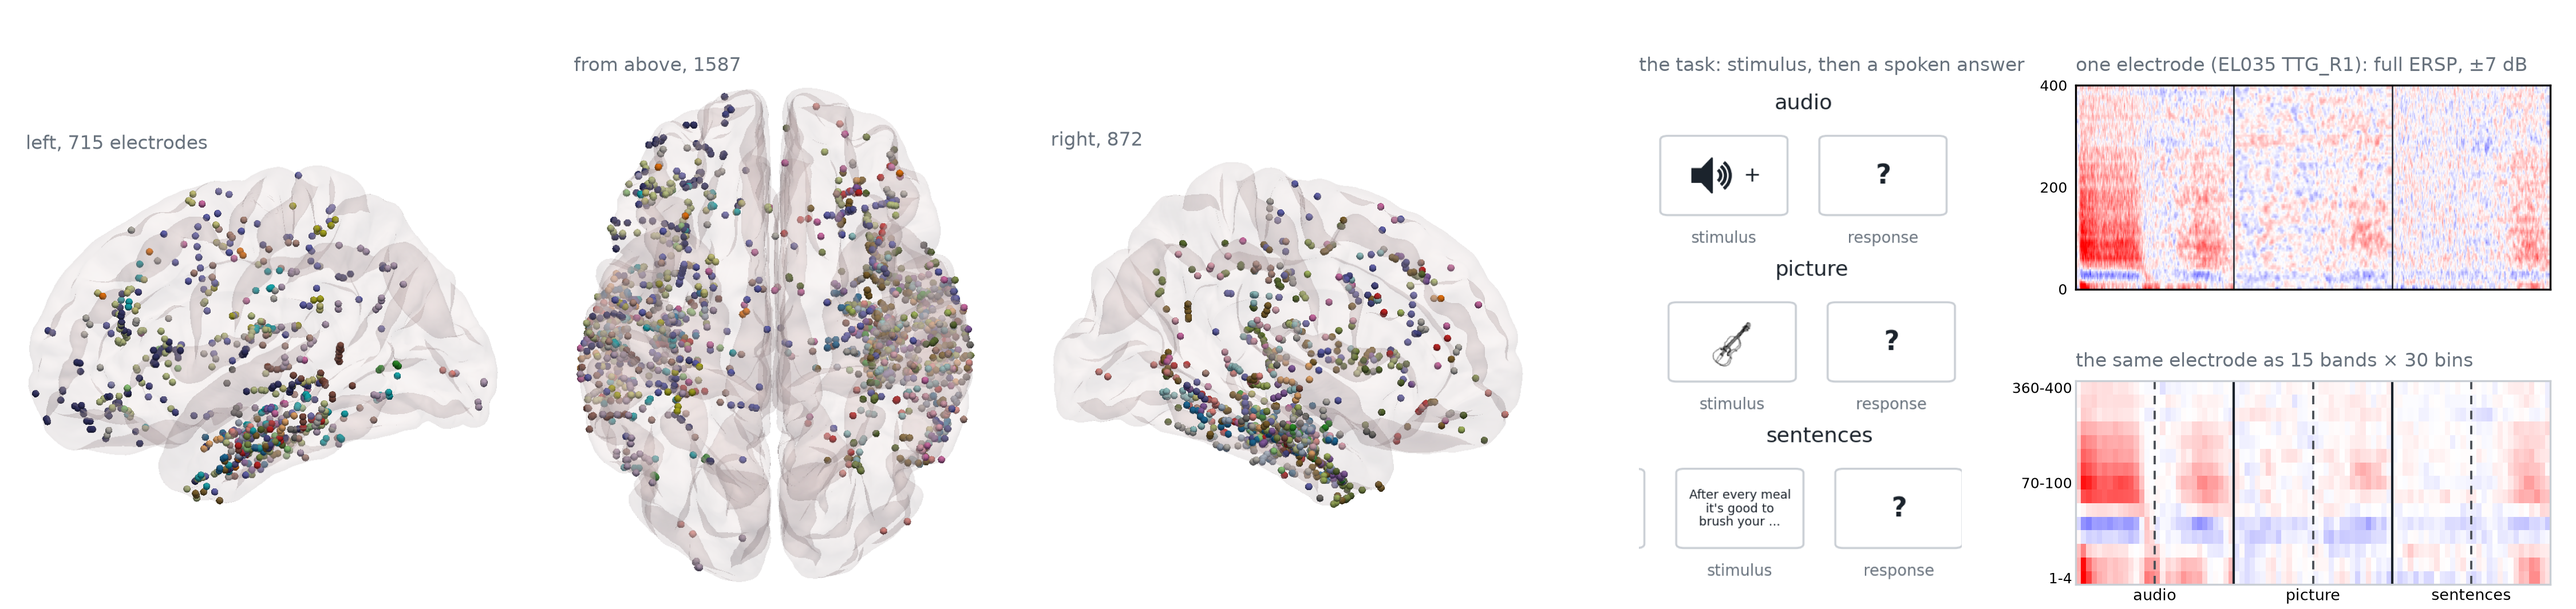
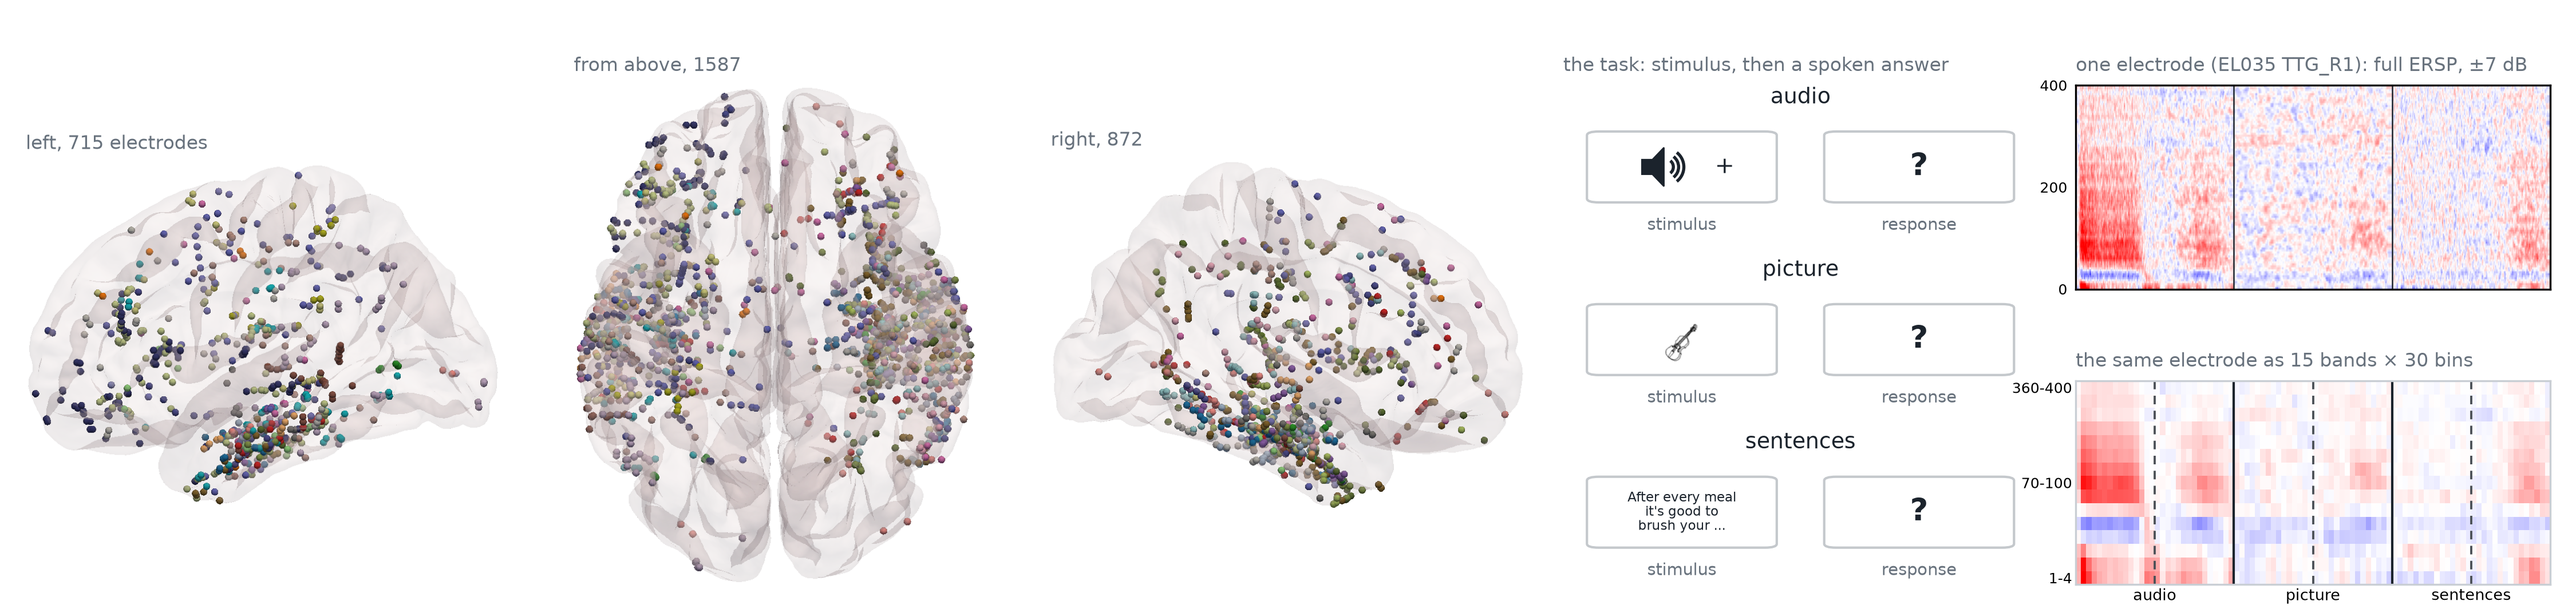
make_poster_assets.py: the task screens are drawn (as figure 0's header_0), one condition per axes, instead of cropped from the rendered FIG0 at fixed fractions of its width - those fractions went stale when figure 0 was re-laid out (boxes cut, a sliver of the neighbouring box, rows drifting); in fi

diff --git a/02_FBM_Clustering/make_poster_assets.py b/02_FBM_Clustering/make_poster_assets.py
@@ -113,6 +113,43 @@ def render_all(side, d, cols, rads, alphas, zoom=1.30):
     return P2._crop_alpha(np.asarray(img))
 
 
+SENTENCE_EXAMPLE = "After every meal\nit's good to\nbrush your ..."   # the paradigm figure's example (as figure 0)
+TASK_CONDS = ("audio", "picture", "reading")
+
+
+def task_header(ax, cond, scale=1.0, name=True):
+    """One condition's trial, drawn: the stimulus screen over the stimulus half (x 0-0.5) and the "?" response cue
+    over the response half (x 0.5-1), the condition's name above and "stimulus" / "response" under them; the same
+    drawing as 00_paper2_figure0_coverage.header_0, one block per axes so it sits exactly over its ERSP column."""
+    from matplotlib.patches import FancyBboxPatch
+    ax.set_xlim(0, 1); ax.set_ylim(0, 1); ax.axis("off")
+    if name:
+        ax.text(0.5, 0.99, P2.COND_LABEL[cond], ha="center", va="top", fontsize=11 * scale, color=INK)
+    for k_, (x0, x1) in enumerate(((0.05, 0.45), (0.55, 0.95))):
+        ax.add_patch(FancyBboxPatch((x0, 0.24), x1 - x0, 0.46, boxstyle="round,pad=0,rounding_size=0.025",
+                                    fc="white", ec="#c4c8cc", lw=1.0, clip_on=False))
+        xc = (x0 + x1) / 2
+        if k_ == 1:
+            ax.text(xc, 0.47, "?", ha="center", va="center", fontsize=16 * scale, color=INK, fontweight="bold")
+        elif cond == "audio":
+            P2.icon_audio(_task_icon(ax, xc - 0.04, 0.15, 0.30, 0.34))
+            ax.text(xc + 0.09, 0.47, "+", ha="center", va="center", fontsize=12 * scale, color=INK)
+        elif cond == "picture":
+            P2.icon_picture(_task_icon(ax, xc, 0.34, 0.26, 0.42))
+        else:
+            ax.text(xc, 0.47, SENTENCE_EXAMPLE, ha="center", va="center", fontsize=6.6 * scale, color=INK, linespacing=1.1)
+    for k_, word in enumerate(("stimulus", "response")):
+        ax.text(0.25 + 0.5 * k_, 0.09, word, ha="center", va="center", fontsize=8.5 * scale, color=MUTED)
+
+
+def _task_icon(ax, xc, w, y0, h):
+    ia = ax.inset_axes([xc - w / 2, y0, w, h], transform=ax.transData)
+    ia.set_xlim(0, 1); ia.set_ylim(0, 1)
+    ia.set_aspect("equal", adjustable="box")
+    ia.axis("off")
+    return ia
+
+
 def image_axes(fig, spec):
     ax = fig.add_subplot(spec); ax.set_xticks([]); ax.set_yticks([])
     for s_ in ax.spines.values():
@@ -127,16 +164,6 @@ def row1(d):
     n = len(d["xyz"])
     cols = np.array([pcol[p][:3] for p in d["patient"]]); rads = np.full(n, 1.35); al = np.full(n, 235.0)
     brains = {s_: render_all(s_, d, cols, rads, al, zoom=1.25) for s_ in ("L", "T", "R")}
-    # the task screens: the header of the opening figure, cropped from its paper render
-    fig0 = CL / "paper_figures" / "paper" / "FIG0_cohort_v17.png"
-    task0 = Image.open(fig0).convert("RGB"); w0, h0 = task0.size
-    # the three conditions' screens, one above the other, so the tile is square
-    bands = [(0.165, 0.415), (0.405, 0.655), (0.645, 0.895)]
-    crops = [task0.crop((int(x0 * w0), int(0.005 * h0), int(x1 * w0), int(0.125 * h0))) for x0, x1 in bands]
-    cw = max(c.width for c in crops); ch = crops[0].height
-    task = Image.new("RGB", (cw, ch * 3), "white")
-    for i_, c in enumerate(crops):
-        task.paste(c, (0, i_ * ch))
     # one electrode as the pipeline sees it
     inp = cache_input_dir()
     df, Xc = CC.build_concat_dataset(inp, conditions=("audio", "picture", "reading"), require_high_activity=True, cache_dir=CC.DEFAULT_CONCAT_CACHE, verbose=False)
@@ -148,7 +175,11 @@ def row1(d):
     gs = GridSpec(1, 5, figure=fig, left=0.01, right=0.99, top=0.86, bottom=0.04, wspace=0.08)
     for k_, (s_, ttl) in enumerate((("L", f"left, {int((d['hemi'] == 'L').sum())} electrodes"), ("T", f"from above, {n}"), ("R", f"right, {int((d['hemi'] == 'R').sum())}"))):
         ax = image_axes(fig, gs[0, k_]); ax.imshow(brains[s_]); ax.set_title(ttl, fontsize=8, color=MUTED, loc="left")
-    ax = image_axes(fig, gs[0, 3]); ax.imshow(task); ax.set_title("the task: stimulus, then a spoken answer", fontsize=8, color=MUTED, loc="left")
+    tsub = gs[0, 3].subgridspec(3, 1, hspace=0.12)                # the three conditions' trials, drawn, one above the other
+    for i_, cond in enumerate(TASK_CONDS):
+        axt = fig.add_subplot(tsub[i_, 0]); task_header(axt, cond, scale=0.82)
+        if i_ == 0:
+            axt.set_title("the task: stimulus, then a spoken answer", fontsize=8, color=MUTED, loc="left")
     sub = gs[0, 4].subgridspec(2, 1, height_ratios=[1, 1], hspace=0.45)
     axr = fig.add_subplot(sub[0, 0])
     axr.imshow(raw, aspect="auto", origin="lower", cmap="bwr", vmin=-7, vmax=7, extent=(0, 900, 0, 400))
@@ -166,7 +197,10 @@ def row1(d):
     # the tiles singly
     for s_, img in brains.items():
         Image.fromarray(img).save(OUT / f"tile_brain_{s_}.png")
-    task.save(OUT / "tile_task.png")
+    ft = plt.figure(figsize=(2.4, 3.0), dpi=DPI)                      # the task tile alone, drawn as in the row
+    for i_, cond in enumerate(TASK_CONDS):
+        task_header(ft.add_axes([0.03, 0.03 + (2 - i_) * 0.32, 0.94, 0.30]), cond, scale=0.82)
+    ft.savefig(OUT / "tile_task.png", facecolor="white"); plt.close(ft)
     return p
 
 
@@ -174,10 +208,6 @@ def row1(d):
 def row1_column(d):
     """The task screens; under them one electrode's full ERSP and its 15-band summary, condition
     by condition in the same columns; the three cohort brains at the bottom."""
-    fig0 = CL / "paper_figures" / "paper" / "FIG0_cohort_v17.png"
-    task0 = Image.open(fig0).convert("RGB"); w0, h0 = task0.size
-    bands = [(0.170, 0.405), (0.415, 0.650), (0.660, 0.895)]
-    screens = [task0.crop((int(x0 * w0), int(0.005 * h0), int(x1 * w0), int(0.125 * h0))) for x0, x1 in bands]
     inp = cache_input_dir()
     df, Xc = CC.build_concat_dataset(inp, conditions=("audio", "picture", "reading"), require_high_activity=True, cache_dir=CC.DEFAULT_CONCAT_CACHE, verbose=False)
     i_raw = int(np.where((df.patient_id.values == EXAMPLE[0]) & (df.electrode.astype(str).values == EXAMPLE[1]))[0][0])
@@ -201,7 +231,7 @@ def row1_column(d):
     fig = plt.figure(figsize=(7.4, 10.2), dpi=DPI)
     gs = GridSpec(4, 3, figure=fig, height_ratios=[1.0, 1.25, 0.9, 1.7], left=0.09, right=0.93, top=0.985, bottom=0.03, hspace=0.28, wspace=0.05)
     for c_ in range(3):
-        ax = image_axes(fig, gs[0, c_]); ax.imshow(screens[c_])
+        task_header(fig.add_subplot(gs[0, c_]), TASK_CONDS[c_])     # drawn in the ERSP's own column: halves line up
     for c_ in range(3):
         ax = fig.add_subplot(gs[1, c_])
         im = ax.imshow(raw[:, c_ * nt_raw:(c_ + 1) * nt_raw], aspect="auto", origin="lower", cmap="bwr", vmin=-7, vmax=7, extent=(0, 100, 0, 400))
